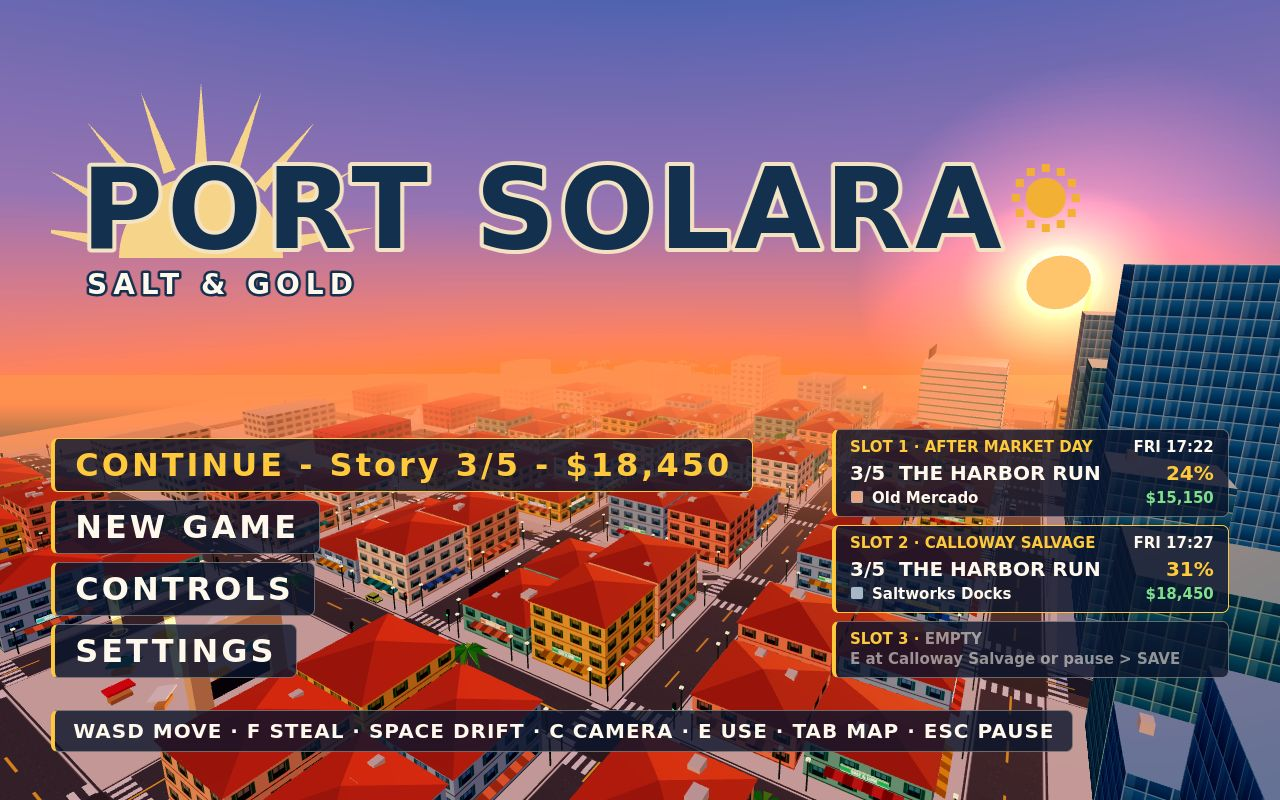
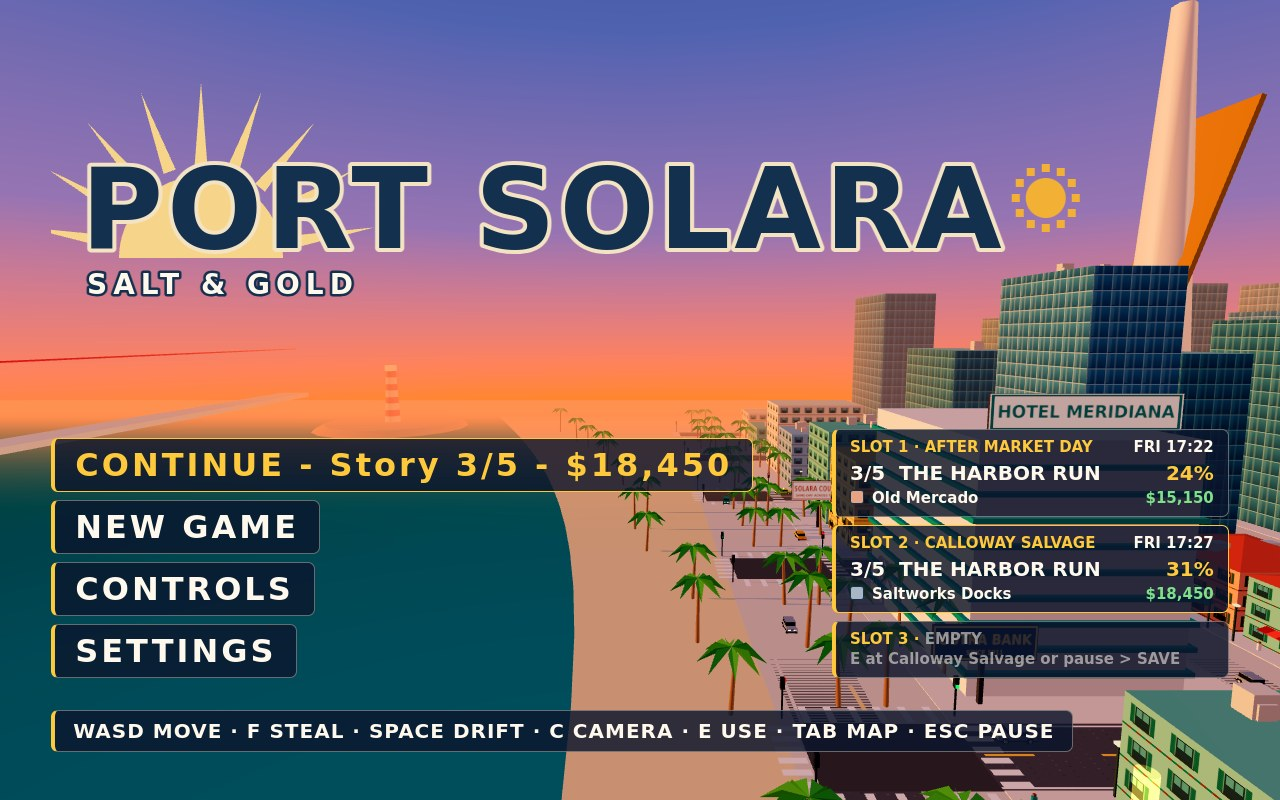
M17 step 2: title drone over the bay: eye (-210, 50, 40 + s), look (-210, 39.5, s - 59.5), follow (-207.8, s - 110), s = 12 sin((tick - 420) / 1200) (0 in the shot). Probe (out/m17/probe.mjs, 1024x640): teal sea 10.94% of the frame clear of panels / 10.80% of the cell; crowns clear 30 (24 >= 16 px),

diff --git a/game/src/main.js b/game/src/main.js
@@ -252,12 +252,13 @@ export function bootPortSolara() {
     game.nightLights.update(game.dayNight.level);
     game.nightMarket.render(game.dayNight.level);
     if (game.mode === 'title') {
-      // A slow drone swing 250 m east of the Sundial Tower, looking west over the city to the
-      // low sun and the bay; the needle stays out past the right edge, clear of the wordmark.
-      const a = 0.35 + Math.sin(game.time * 0.05) * 0.12;
-      camera.position.set(-30 + Math.cos(a) * 250, 85, -180 + Math.sin(a) * 250);
-      camera.lookAt(-47, 20, 69);
-      game.light.follow({ x: -60, z: -120 }, camera.position);
+      // A drone 50 m over the sand looking north up the beach: the bay at left, the palm boulevard
+      // to Lantern Point, Hotel Meridiana, the towers and the Sundial needle at right; the low sun
+      // stays out of frame to the left. It drifts +/- 12 m along the shore (0 in the shot).
+      const s = 12 * Math.sin((game.tick - 420) / 1200);
+      camera.position.set(-210, 50, 40 + s);
+      camera.lookAt(-210, 39.5, s - 59.5);
+      game.light.follow({ x: -207.8, z: s - 110 }, camera.position);
     } else {
       game.chase.update(0, game.focus, game.collide);
       game.light.follow(game.focus, camera.position);
